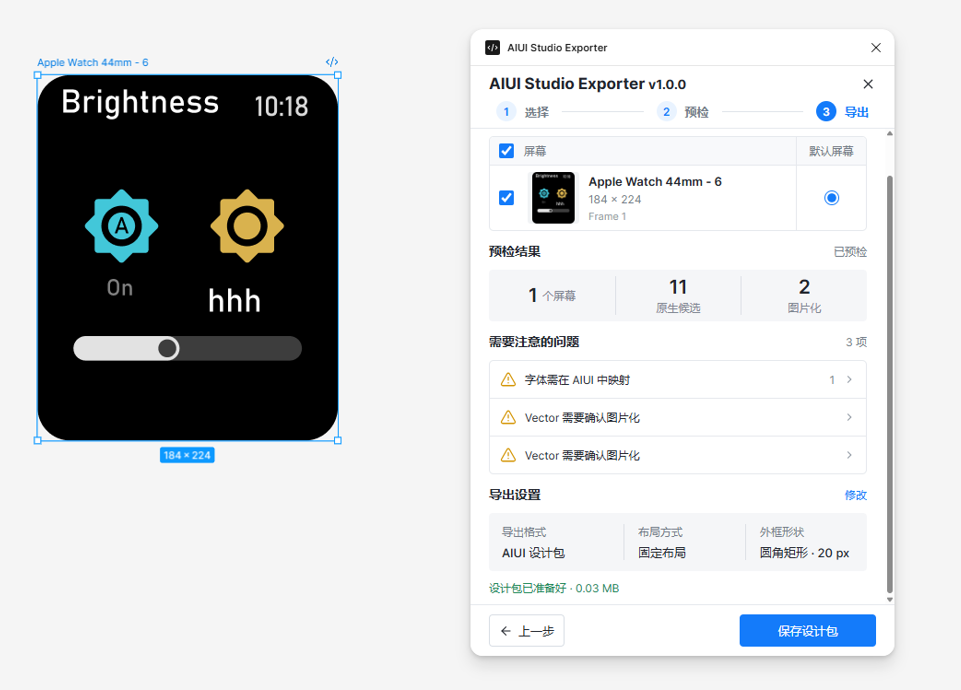
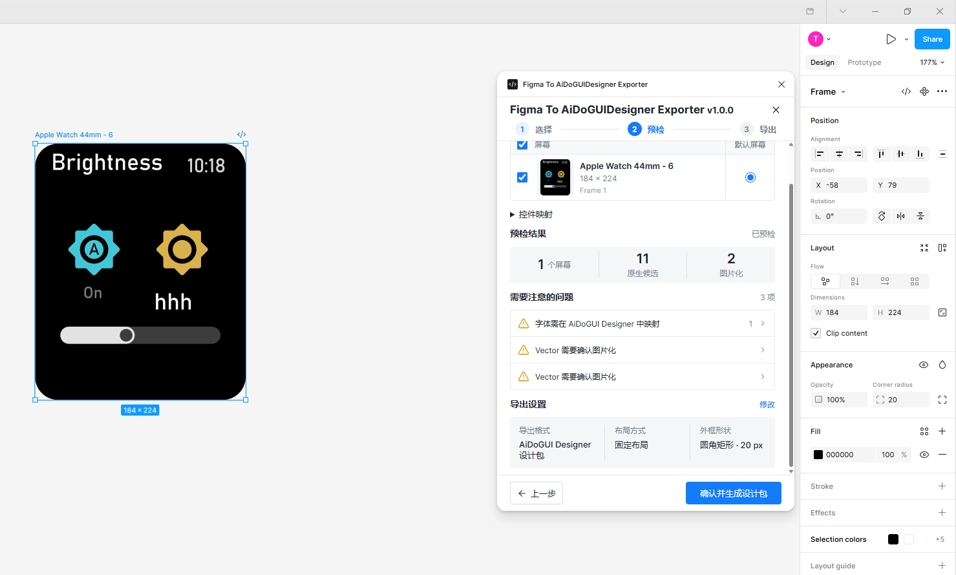
fix:更新

diff --git a/README_EN.md b/README_EN.md
@@ -19,7 +19,7 @@ AiDoGUI Designer is an LVGL interface design tool for embedded devices. You can 
 
 Whether you are an experienced LVGL engineer or a designer new to embedded interfaces, AiDoGUI Designer turns your ideas into real, working screens quickly.
 
-![image-20260927173529535](./assets/image-20260927173529535.png)
+![image-20260927140953897](./assets/edit.png)
 
 ## 🎯 2. Why Choose AiDoGUI Designer
 
@@ -55,7 +55,9 @@ Whether you are an experienced LVGL engineer or a designer new to embedded inter
 
 ### 🚀 3.2 One-Click Figma Import, Opening the Door to UI Design
 
-- Use the AiDoGUI Designer Exporter plugin to export Figma designs in one click and import them through AiDoGUI Designer
+- Search for the "Figmea To AiDoGUIDesigner Exporter" plugin in the Figma plugin marketplace, install it, and open the plugin
+
+- Select the layers to export in Figma, export the Figma design as a .zip file in one click, and import it through AiDoGUI Designer
 
 - Import **Figma** designs with automatic association of fonts and other resources
 

diff --git a/README.md b/README.md
@@ -55,7 +55,9 @@ AiDoGUI Designer 是一款面向嵌入式设备的 LVGL 界面设计工具，让
 
 ### 🚀3.2 一键导入Figma设计稿，打通UI设计大门
 
-- 通过AiDoGUI Designer Exporter插件，一键导出Figma设计稿，通过AiDoGUI Designer进行导入
+- Figma 插件市场搜索“Figmea To AiDoGUIDesigner Exporter” 插件然后安装，打开插件
+
+- 在Figma选择要导出的Layer，一键导出Figma设计稿.zip，通过AiDoGUI Designer进行导入
 
 - 导入 **Figma** 设计稿，字体等资源自动关
 
